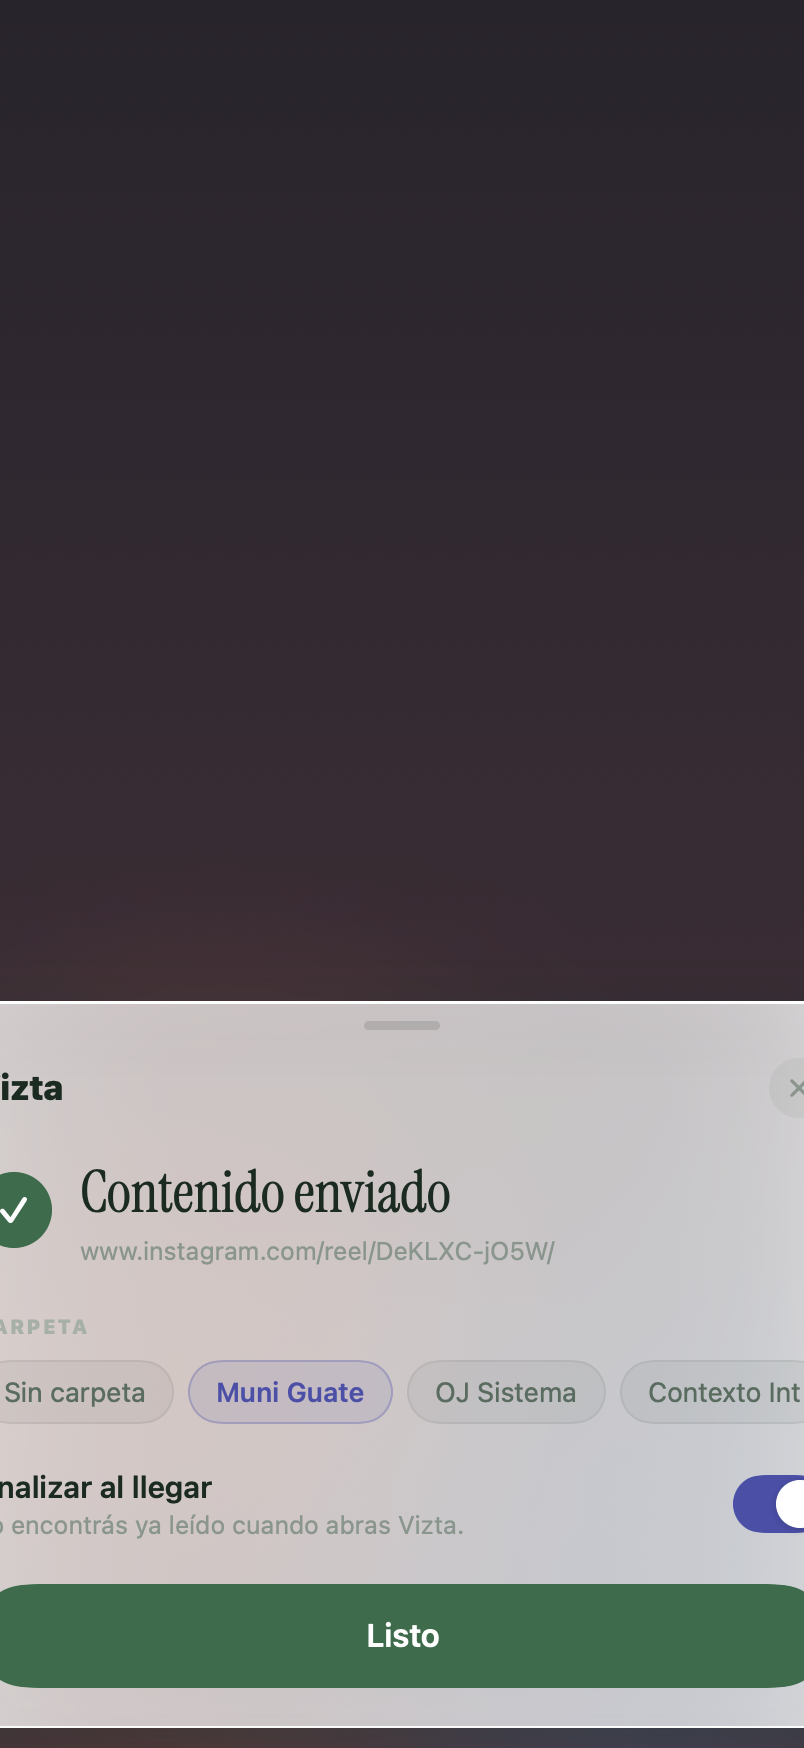
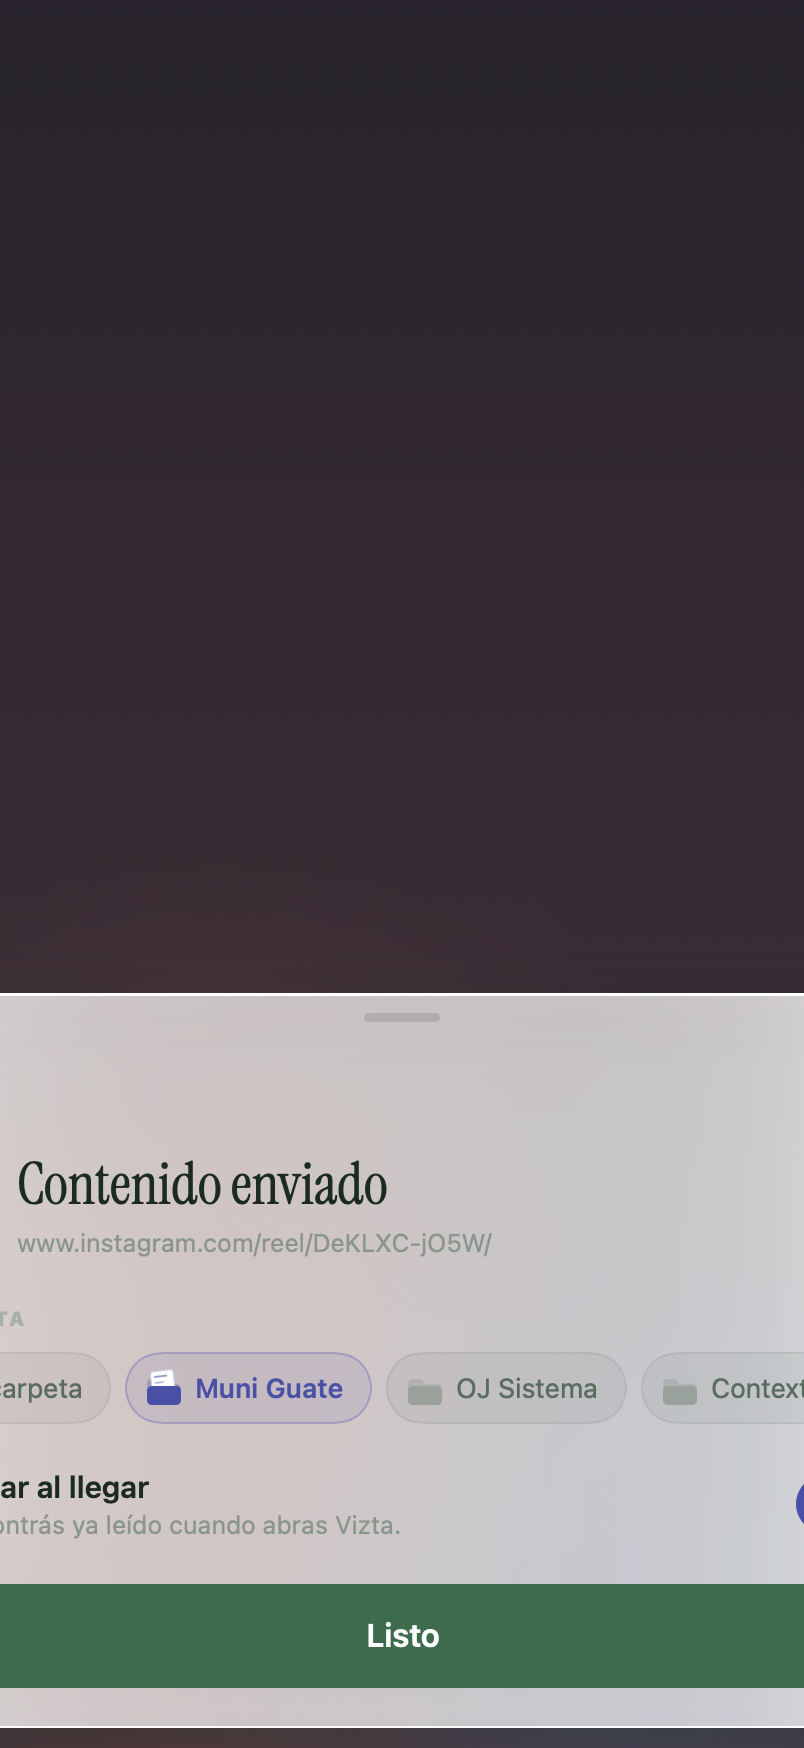
feat(mobile): en la hoja de compartir, carpetas con su hoja que asoma, el loader de Vizta y el cheque animado (STA-230)

diff --git a/ViztaApp/apps/mobile/plugins/compartir/ShareViewController.swift b/ViztaApp/apps/mobile/plugins/compartir/ShareViewController.swift
@@ -107,21 +107,89 @@ struct Hundido: ButtonStyle {
   }
 }
 
+/// Para dibujar la hoja quieta (`docs/compartir/dibujar.swift`): sin esto, lo
+/// que entra con una animación saldría en la imagen antes de haber entrado.
+enum Movimiento {
+  static var activo = true
+}
+
+/**
+ Una carpeta chica. Al elegirla, una hoja se asoma por arriba: es el post
+ entrando ahí. La hoja está siempre, detrás de la tapa; elegir la carpeta la
+ sube con un resorte que rebota un poco, como papel.
+ */
+struct IconoCarpeta: View {
+  let abierta: Bool
+  let color: Color
+
+  var body: some View {
+    ZStack(alignment: .bottom) {
+      // El fondo de la carpeta, con su pestaña.
+      FormaCarpeta().fill(color.opacity(0.32))
+
+      // La hoja.
+      RoundedRectangle(cornerRadius: 1.6, style: .continuous)
+        .fill(Color.white)
+        .overlay(
+          VStack(alignment: .leading, spacing: 1.8) {
+            Capsule().fill(color.opacity(0.55)).frame(width: 6.5, height: 1.1)
+            Capsule().fill(color.opacity(0.35)).frame(width: 4.5, height: 1.1)
+          }
+          .padding(.top, 2.6).padding(.leading, 2.2),
+          alignment: .topLeading
+        )
+        .overlay(RoundedRectangle(cornerRadius: 1.6, style: .continuous).strokeBorder(color.opacity(0.28), lineWidth: 0.6))
+        .frame(width: 12, height: 11)
+        .rotationEffect(.degrees(abierta ? -7 : 0), anchor: .bottom)
+        .offset(y: abierta ? -6.5 : -1)
+        .opacity(abierta ? 1 : 0)
+
+      // La tapa de adelante: tapa la hoja mientras está guardada.
+      RoundedRectangle(cornerRadius: 2.4, style: .continuous)
+        .fill(color.opacity(abierta ? 1 : 0.62))
+        .frame(width: 17, height: 9.5)
+    }
+    .frame(width: 17, height: 17, alignment: .bottom)
+    .animation(Movimiento.activo ? .spring(response: 0.34, dampingFraction: 0.52) : nil, value: abierta)
+  }
+}
+
+struct FormaCarpeta: Shape {
+  func path(in r: CGRect) -> Path {
+    var p = Path()
+    let alto: CGFloat = 13
+    let y0 = r.maxY - alto
+    // La pestaña a la izquierda y el cuerpo.
+    p.addRoundedRect(in: CGRect(x: r.minX, y: y0, width: 8, height: 5), cornerSize: CGSize(width: 2, height: 2))
+    p.addRoundedRect(in: CGRect(x: r.minX, y: y0 + 2.4, width: r.width, height: alto - 2.4), cornerSize: CGSize(width: 2.4, height: 2.4))
+    return p
+  }
+}
+
 struct Chip: View {
   let texto: String
   let elegido: Bool
+  /// `false` en «Sin carpeta»: no hay carpeta que dibujar.
+  var conCarpeta = true
   let alTocar: () -> Void
   var body: some View {
     Button(action: alTocar) {
-      Text(texto)
-        .font(.system(size: 13.5, weight: elegido ? .semibold : .regular))
-        .foregroundColor(elegido ? Tema.indigo : Tema.cuerpo)
-        .lineLimit(1)
-        .fixedSize()
-        .padding(.horizontal, 14)
-        .padding(.vertical, 8)
-        .background(Capsule().fill(elegido ? Tema.indigo.opacity(0.10) : Tema.titulo.opacity(0.05)))
-        .overlay(Capsule().strokeBorder(elegido ? Tema.indigo.opacity(0.28) : Tema.titulo.opacity(0.07), lineWidth: 1))
+      HStack(spacing: 7) {
+        if conCarpeta {
+          IconoCarpeta(abierta: elegido, color: elegido ? Tema.indigo : Tema.meta)
+        }
+        Text(texto)
+          .font(.system(size: 13.5, weight: elegido ? .semibold : .regular))
+          .foregroundColor(elegido ? Tema.indigo : Tema.cuerpo)
+          .lineLimit(1)
+          .fixedSize()
+      }
+      .padding(.leading, conCarpeta ? 11 : 14)
+      .padding(.trailing, 14)
+      // Alto fijo: la hoja se asoma por encima de la carpeta sin mover la pastilla.
+      .frame(height: 36)
+      .background(Capsule().fill(elegido ? Tema.indigo.opacity(0.10) : Tema.titulo.opacity(0.05)))
+      .overlay(Capsule().strokeBorder(elegido ? Tema.indigo.opacity(0.28) : Tema.titulo.opacity(0.07), lineWidth: 1))
     }
     .buttonStyle(Hundido())
   }
@@ -148,18 +216,110 @@ struct Interruptor: View {
   }
 }
 
-/// El círculo que dice en qué va: girando, hecho, o con un problema.
+/**
+ El loader de Vizta (`MorphingInfinity`): un anillo que se pliega en infinito y
+ vuelve, mientras un trazo lo recorre. Los mismos dos ciclos con períodos que no
+ son múltiplos —2,4 s el pliegue, 1,7 s el trazo—, así que no se vuelve un
+ bucle reconocible.
+ */
+struct AnilloInfinito: Shape {
+  /// 0 = anillo, 1 = infinito (lemniscata de Gerono).
+  var pliegue: Double
+
+  func path(in r: CGRect) -> Path {
+    let lado = min(r.width, r.height)
+    let radio = lado / 2 - lado * 0.11
+    let n = 96
+    var p = Path()
+    for i in 0..<n {
+      let t = Double(i) / Double(n) * .pi * 2
+      let x = r.midX + CGFloat(cos(t)) * radio
+      let y = r.midY + CGFloat(sin(t) * (1 - pliegue) + sin(t) * cos(t) * pliegue) * radio
+      if i == 0 { p.move(to: CGPoint(x: x, y: y)) } else { p.addLine(to: CGPoint(x: x, y: y)) }
+    }
+    p.closeSubpath()
+    return p
+  }
+}
+
+struct Cargando: View {
+  var lado: CGFloat = 38
+  var color: Color = Tema.titulo
+
+  private static func suave(_ t: Double) -> Double { t * t * (3 - 2 * t) }
+
+  var body: some View {
+    TimelineView(.animation) { linea in
+      // Quieto (al dibujarlo a una imagen) se muestra a medio plegar.
+      let ms = Movimiento.activo ? linea.date.timeIntervalSinceReferenceDate * 1000 : 760
+      // Coseno y no rampa: se demora en el anillo y en el infinito.
+      let f = ms.truncatingRemainder(dividingBy: 2400) / 2400
+      let pliegue = (1 - cos(f * .pi * 2)) / 2
+      // El trazo se dibuja en la primera mitad y se borra en la segunda.
+      let g = ms.truncatingRemainder(dividingBy: 1700) / 1700
+      let desde = g < 0.5 ? 0 : Self.suave((g - 0.5) * 2)
+      let hasta = g < 0.5 ? Self.suave(g * 2) : 1
+      let estilo = StrokeStyle(lineWidth: max(2, lado * 0.055), lineCap: .round, lineJoin: .round)
+      ZStack {
+        // La pista, siempre visible: sin ella, cuando el trazo termina de
+        // borrarse no quedaría nada y parecería colgado.
+        AnilloInfinito(pliegue: pliegue).stroke(color.opacity(0.18), style: estilo)
+        AnilloInfinito(pliegue: pliegue).trim(from: desde, to: hasta).stroke(color, style: estilo)
+      }
+    }
+    .frame(width: lado, height: lado)
+  }
+}
+
+struct FormaCheque: Shape {
+  func path(in r: CGRect) -> Path {
+    var p = Path()
+    p.move(to: CGPoint(x: r.minX + r.width * 0.29, y: r.minY + r.height * 0.53))
+    p.addLine(to: CGPoint(x: r.minX + r.width * 0.44, y: r.minY + r.height * 0.67))
+    p.addLine(to: CGPoint(x: r.minX + r.width * 0.72, y: r.minY + r.height * 0.36))
+    return p
+  }
+}
+
+/**
+ El cheque de «enviado». Llega en tres tiempos: el círculo verde salta desde
+ chico con un rebote, el cheque se dibuja de un trazo, y una onda sale del
+ círculo y se pierde. Es la confirmación; tiene que sentirse, no solo verse.
+ */
+struct Cheque: View {
+  var lado: CGFloat = 38
+  @State private var llego = !Movimiento.activo
+
+  var body: some View {
+    ZStack {
+      Circle()
+        .strokeBorder(Tema.orbe.opacity(llego ? 0 : 0.5), lineWidth: 2)
+        .scaleEffect(llego ? 1.9 : 1)
+        .animation(Movimiento.activo ? .easeOut(duration: 0.7).delay(0.12) : nil, value: llego)
+      Circle()
+        .fill(Tema.orbe)
+        .scaleEffect(llego ? 1 : 0.3)
+        .animation(Movimiento.activo ? .spring(response: 0.38, dampingFraction: 0.5) : nil, value: llego)
+      FormaCheque()
+        .trim(from: 0, to: llego ? 1 : 0)
+        .stroke(Color.white, style: StrokeStyle(lineWidth: 2.6, lineCap: .round, lineJoin: .round))
+        .animation(Movimiento.activo ? .easeOut(duration: 0.3).delay(0.16) : nil, value: llego)
+    }
+    .frame(width: lado, height: lado)
+    .onAppear { llego = true }
+  }
+}
+
+/// El círculo que dice en qué va: cargando, hecho, o con un problema.
 struct Marca: View {
   let estado: Estado
   var body: some View {
     ZStack {
       switch estado {
       case .enviando:
-        Circle().strokeBorder(Tema.titulo.opacity(0.10), lineWidth: 2.5)
-        Giro()
+        Cargando()
       case .enviado:
-        Circle().fill(Tema.orbe)
-        Image(systemName: "checkmark").font(.system(size: 15, weight: .bold)).foregroundColor(.white)
+        Cheque()
       case .fallo:
         Circle().fill(Tema.rojo.opacity(0.09))
         Circle().strokeBorder(Tema.rojo.opacity(0.35), lineWidth: 1.5)
@@ -167,20 +327,7 @@ struct Marca: View {
       }
     }
     .frame(width: 38, height: 38)
-    .transition(.scale(scale: 0.6).combined(with: .opacity))
     .id(estado == .enviando ? 0 : estado == .enviado ? 1 : 2)
-  }
-}
-
-struct Giro: View {
-  @State private var vuelta = false
-  var body: some View {
-    Circle()
-      .trim(from: 0.08, to: 0.62)
-      .stroke(Tema.orbe, style: StrokeStyle(lineWidth: 2.5, lineCap: .round))
-      .rotationEffect(.degrees(vuelta ? 360 : 0))
-      .animation(.linear(duration: 0.9).repeatForever(autoreverses: false), value: vuelta)
-      .onAppear { vuelta = true }
   }
 }
 
@@ -276,7 +423,7 @@ struct Hoja: View {
           .padding(.top, 24).padding(.bottom, 10)
         ScrollView(.horizontal, showsIndicators: false) {
           HStack(spacing: 7) {
-            Chip(texto: "Sin carpeta", elegido: carpetaElegida == nil) { alElegirCarpeta(nil) }
+            Chip(texto: "Sin carpeta", elegido: carpetaElegida == nil, conCarpeta: false) { alElegirCarpeta(nil) }
             ForEach(carpetas) { c in
               Chip(texto: c.nombre, elegido: carpetaElegida == c.id) { alElegirCarpeta(c.id) }
             }

diff --git a/ViztaApp/apps/mobile/docs/compartir/dibujar.swift b/ViztaApp/apps/mobile/docs/compartir/dibujar.swift
@@ -34,6 +34,7 @@ struct Fondo: View {
 
 @MainActor func todo() {
   Fuentes.cargar(URL(fileURLWithPath: "assets/fonts/InstrumentSerif-Regular.ttf"))
+  Movimiento.activo = false
   let enlace = "www.instagram.com/reel/DeKLXC-jO5W/"
   let carpetas = [Carpeta(id: "1", nombre: "Muni Guate"), Carpeta(id: "2", nombre: "OJ Sistema"), Carpeta(id: "3", nombre: "Contexto Int")]
   func hoja(_ e: Estado, _ d: String? = enlace, c: [Carpeta] = [], elegida: String? = nil, analizar: Bool = false, cuenta: Double? = nil) -> Hoja {
